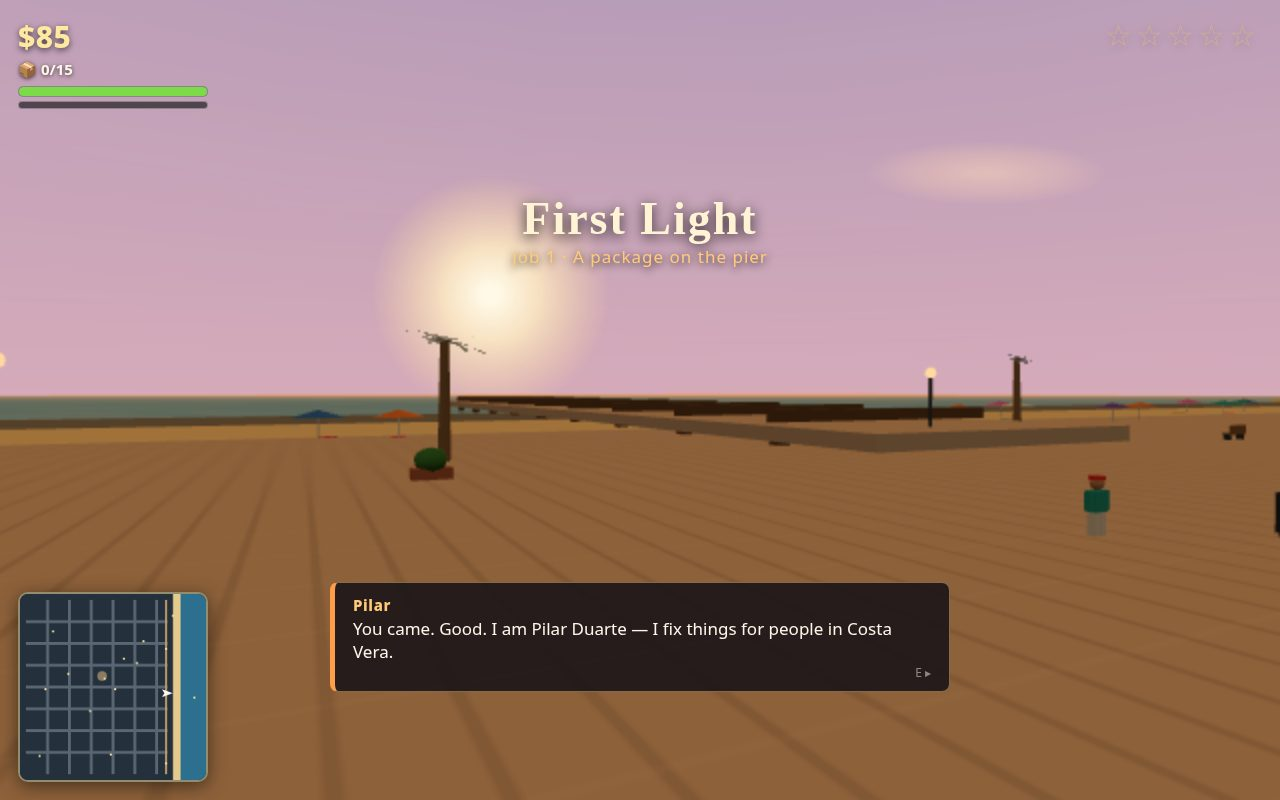
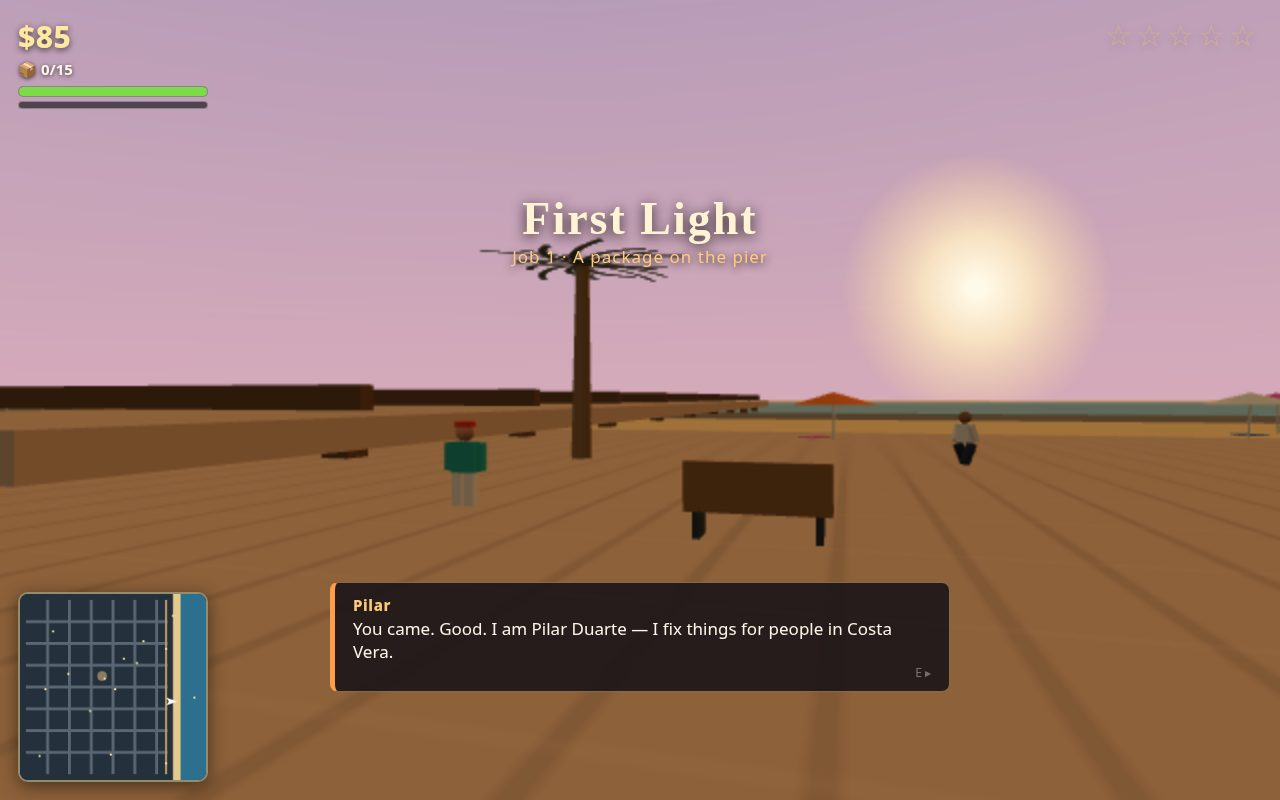
Golden Hour — Costa Vera: restage shots 2-4, sailboats + denser beach (round 9)
- Combat (job 4): elevated three-quarter angle, player big centre-frame,
  Vendaval GT as cover, hostiles closing in with health bars, beacon clear
  of the title.
- Story (job 1): player on the boardwalk at the pier root, back to camera,
  pier leading out to the sea and the low sun; two strollers for life.
  (Player cannot stand on the pier: deck is raised 1.7 m, player sits at
  ground level and would be buried in the deck.)
- Vista: wider framing again, towers + avenue + promenade + beach + pier
  + sea, sun off-frame.
- Polish: 3 sailboats on the water north of the pier, beach umbrellas
  46 -> 64.
- Capture: seeded Math.random in the capture harness so load-time draws
  are reproducible (cover byte-identical across runs; shots 2-4 differ
  only by live-simulation frame timing, <4% pixels).

Changed region(s): [[0.0, 0.25, 1.0, 0.6875], [0.8438, 0.5938, 0.875, 0.6875], [0.9688, 0.625, 1.0, 0.6562]]

diff --git a/game/src/main.js b/game/src/main.js
@@ -703,18 +703,60 @@ window.GH = {
       talkToPilar(G);
       let guard = 30;
       while (G.job.dialogue && guard-- > 0) advanceDialogue(G);
-      teleportPlayer(168, -263);
-      G.camOverride = { x: 155, y: 3.4, z: -245, lx: 176, ly: 1.3, lz: -278 };
+      // Shootout from a slightly elevated three-quarter angle — the
+      // classic GTA view: the whole car park reads as a battlefield, the
+      // player left of centre, the Vendaval GT as cover to his right, the
+      // Sombra hostiles closing in with their health bars, the CLUB
+      // BRISA sign and the towers behind. The beacon column sits at
+      // ~29% width, clear of the centred title. (The player must stay
+      // within 11 m of the car park or the hostiles never spawn —
+      // (175,-264) is 10.6 m out.)
+      const coverCar = makeVehicle('sports', 0xd94f30, 178, -254, Math.PI / 2, 'parked');
+      G.scene.add(coverCar.group);
+      G.vehicles.push(coverCar);
+      const depthCar = makeVehicle('sedan', 0x2e6fb7, 188, -262, -Math.PI / 2, 'parked');
+      G.scene.add(depthCar.group);
+      G.vehicles.push(depthCar);
+      teleportPlayer(175, -264);
+      G.player.heading = Math.PI;
+      G.player.group.rotation.y = G.player.heading;
+      G.cameraYaw = G.player.heading;
+      G.camOverride = { x: 172, y: 6, z: -240, lx: 180, ly: 1, lz: -276 };
     } else if (name === 'story') {
       G.job.nextIndex = 0;
       // Leave Pilar's real opening line open over the live first job.
       talkToPilar(G);
-      teleportPlayer(296, 34);
+      // The player stands on the boardwalk at the pier root, back to the
+      // camera, looking out along the pier to the sea and the low sun;
+      // the deck and its lamps lead the eye east, beach umbrellas to the
+      // right. (The player cannot stand on the pier itself: the deck is
+      // raised 1.7 m and the player mesh sits at ground level, so he
+      // would be buried in the deck.) Two residents stroll nearby.
+      const strollers = [[335, 95], [350, 70]];
+      let placed = 0;
+      for (const p of G.peds) {
+        if (placed >= strollers.length) break;
+        if (p.mode !== 'wander') continue;
+        const [px, pz] = strollers[placed++];
+        p.x = px; p.z = pz;
+        p.targetX = px; p.targetZ = pz;
+        p.anchorX = px; p.anchorZ = pz;
+        p.group.position.set(px, 0, pz);
+      }
+      teleportPlayer(320, 80);
       G.player.heading = Math.PI / 2;
+      G.player.group.rotation.y = G.player.heading;
       G.cameraYaw = Math.PI / 2;
-      G.camOverride = { x: 282, y: 4.5, z: 12, lx: 380, ly: 3, lz: 58 };
+      // Closer and lower than the first attempt: the player reads big at
+      // ~35% width, the pier angles away to the sea at centre, the sun
+      // glows upper-left and the beach umbrellas sit to the right.
+      G.camOverride = { x: 306, y: 2.4, z: 88, lx: 420, ly: 2, lz: 55 };
     } else if (name === 'vista') {
-      G.camOverride = { x: 150, y: 95, z: 305, lx: 430, ly: 0, lz: 10 };
+      // The wider framing: towers and the east avenue with traffic on
+      // the left, the promenade and the pier cutting to the sea in the
+      // middle, beach umbrellas and the sailboats out on the water to
+      // the right, the sun just off-frame.
+      G.camOverride = { x: 120, y: 55, z: 260, lx: 400, ly: 4, lz: -90 };
     }
   },
 };

diff --git a/game/src/city.js b/game/src/city.js
@@ -387,12 +387,47 @@ function buildPalmsAndLamps(scene, rng) {
 const UMBRELLA_COLORS = [0xe84a5f, 0xf2b33c, 0x2e9e8f, 0x3a6fb7, 0xe86ab0, 0xf2782e, 0x7a4fa3, 0xe8e2d2];
 const TOWEL_COLORS = [0xe84a5f, 0x2e9e8f, 0xf2b33c, 0x3a6fb7, 0xf5efdf, 0xe86ab0];
 
+// Sailboats out on the water, north of the pier: hull, mast and a white
+// triangular sail each, bobbing with the marina boats. They give the open
+// sea something to look at from the promenade and the high vista.
+function buildSailboats(scene) {
+  const rng = makeRng(4242);
+  const sailShape = new THREE.Shape();
+  sailShape.moveTo(0, 0);
+  sailShape.lineTo(0, 7.2);
+  sailShape.lineTo(3.4, 0.4);
+  sailShape.lineTo(0, 0);
+  const sailGeo = new THREE.ShapeGeometry(sailShape);
+  const sailMat = new THREE.MeshLambertMaterial({ color: 0xf5f2e8, side: THREE.DoubleSide });
+  const mastMat = new THREE.MeshLambertMaterial({ color: 0x6a4a30 });
+  const hullColors = [0xe8e2d2, 0xb84a3a, 0x3a6a9e];
+  for (let i = 0; i < 3; i++) {
+    const boat = new THREE.Group();
+    const hull = new THREE.Mesh(
+      new THREE.BoxGeometry(6.4, 1.3, 2.4),
+      new THREE.MeshLambertMaterial({ color: hullColors[i] }),
+    );
+    hull.position.y = 0.5;
+    boat.add(hull);
+    const mast = new THREE.Mesh(new THREE.CylinderGeometry(0.09, 0.09, 8), mastMat);
+    mast.position.set(0.4, 4.4, 0);
+    boat.add(mast);
+    const sail = new THREE.Mesh(sailGeo, sailMat);
+    sail.position.set(0.55, 0.9, 0);
+    boat.add(sail);
+    boat.position.set(392 + i * 10 + rng() * 8, 0, -112 - i * 96 - rng() * 18);
+    boat.rotation.y = -Math.PI / 2 + (rng() - 0.5) * 0.5;
+    scene.add(boat);
+    animated.boats.push({ group: boat, phase: 2.1 + i * 1.7 });
+  }
+}
+
 // Beach life on the sand east of the boardwalk: seeded colourful umbrellas
 // (a pole and a cone canopy, no collider — you can stroll between them) with
 // a towel laid out under most of them. Placement is all from the seeded rng.
 function buildBeachLife(scene, rng) {
   const poleMat = new THREE.MeshLambertMaterial({ color: 0xd8d3c8 });
-  for (let i = 0; i < 46; i++) {
+  for (let i = 0; i < 64; i++) {
     const x = 342 + rng() * 24;
     const z = -452 + rng() * 904;
     if (Math.abs(z - CITY.pierZ) < 24) continue; // keep the pier root clear
@@ -488,6 +523,7 @@ export function buildCity(scene) {
   fillBlocks(scene, rng);
   buildSpecials(scene);
   buildPierAndMarina(scene);
+  buildSailboats(scene);
   buildPalmsAndLamps(scene, rng);
   buildBeachLife(scene, rng);
   buildBoardwalkFurniture(scene, rng);
